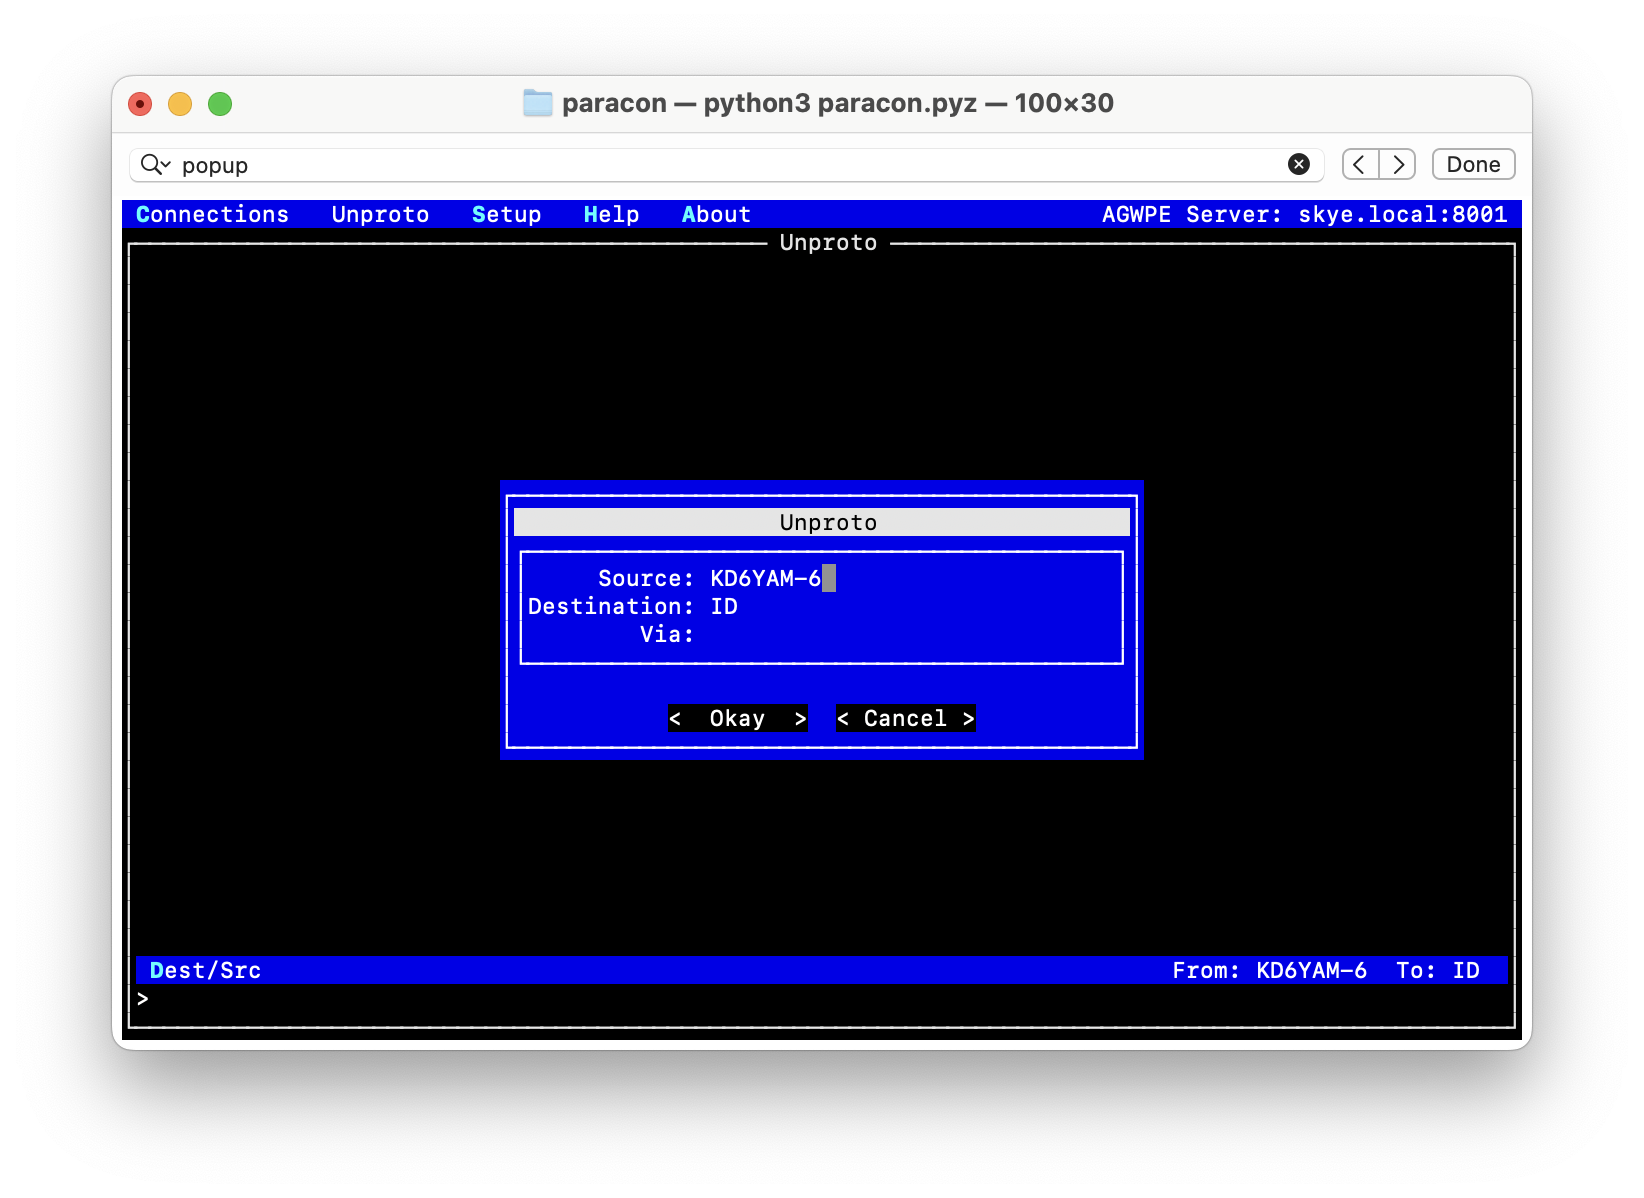
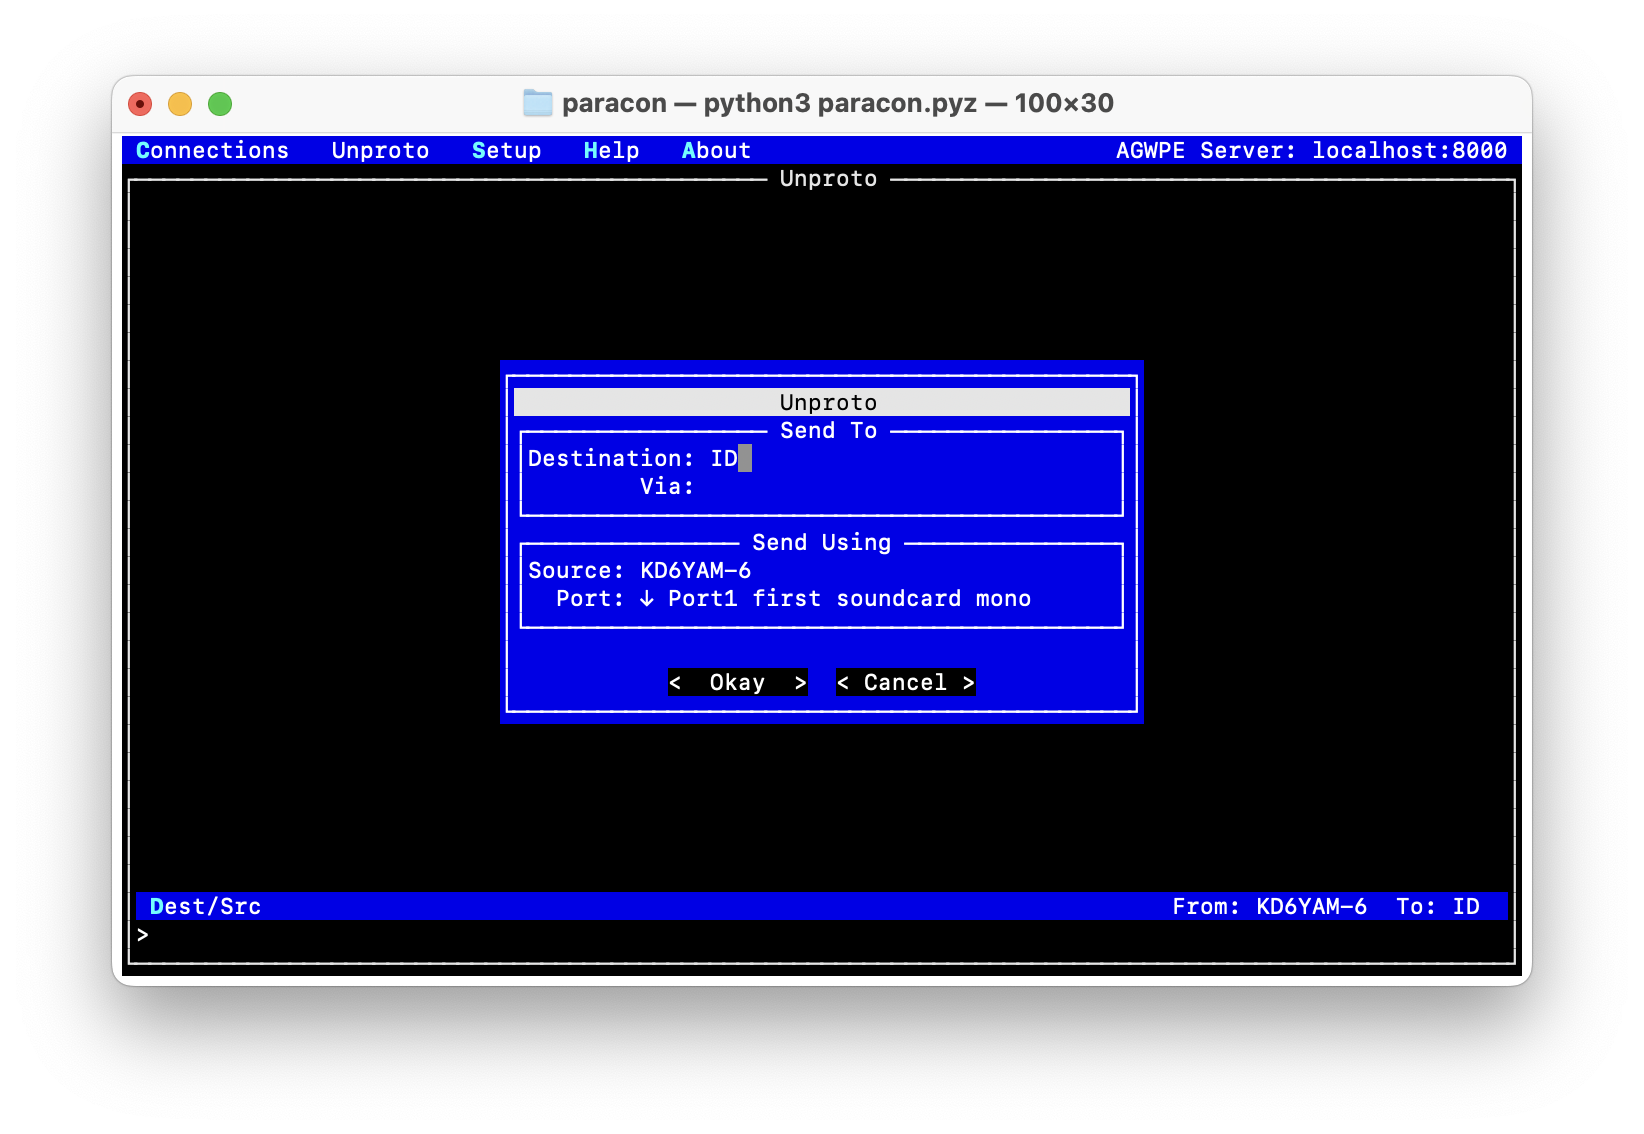
Update docs for Unproto port config

diff --git a/docs/userguide.rst b/docs/userguide.rst
@@ -100,7 +100,7 @@ the callsign you entered at Setup time, but you can, of course, change it if
 desired.
 
 The 'Port' field is a drop-down list of the available AGWPE ports on your
-server. Click on the down-arrow to open the list. In most cases, you will have
+server. Click on the down-arrow to open the list. In many cases, you will have
 only one available port, and can leave this field as it is. If your server
 provides multiple ports, you can select the appropriate one here.
 
@@ -163,15 +163,20 @@ up the Unproto dialog.
 .. image:: /images/unproto_cfg.png
    :alt: Unproto dialog
 
-The 'Source' field will initially show the callsign you entered at Setup time,
-but you can, of course, change it if desired.
-
 The 'Destination' field will initially show 'ID', but you should change this
 depending upon your intended use of Unproto mode. (For example, if you are
-participating in a net, it would be the callsign being used for that net.)
+participating in a net, it might be the callsign being used for that net.)
 
 As with the Connect dialog, if you need to enter multiple ‘via’ values,
 separate them with commas.
+
+The 'Source' field will initially show the callsign you entered at Setup time,
+but you can, of course, change it if desired.
+
+The 'Port' field is a drop-down list of the available AGWPE ports on your
+server. Click on the down-arrow to open the list. In many cases, you will have
+only one available port, and can leave this field as it is. If your server
+provides multiple ports, you can select the appropriate one here.
 
 Settings
 --------
